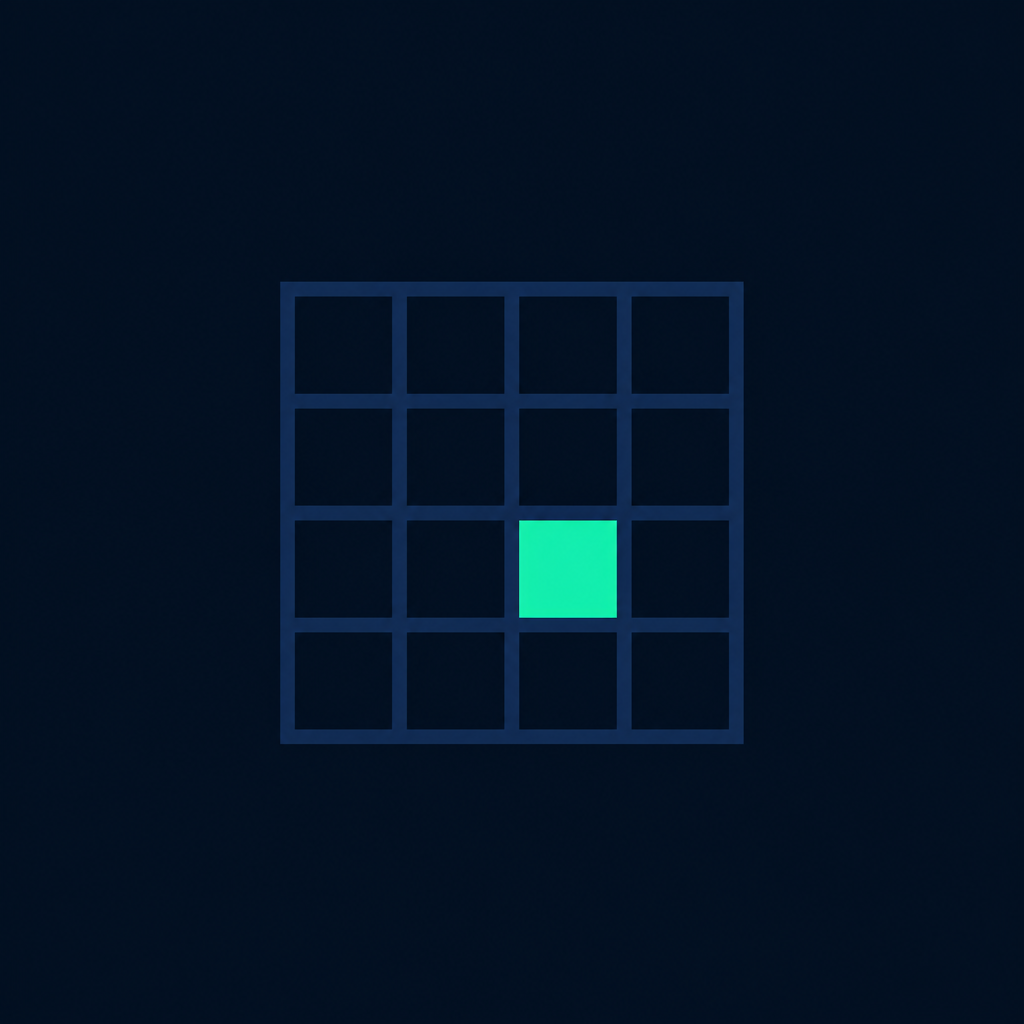
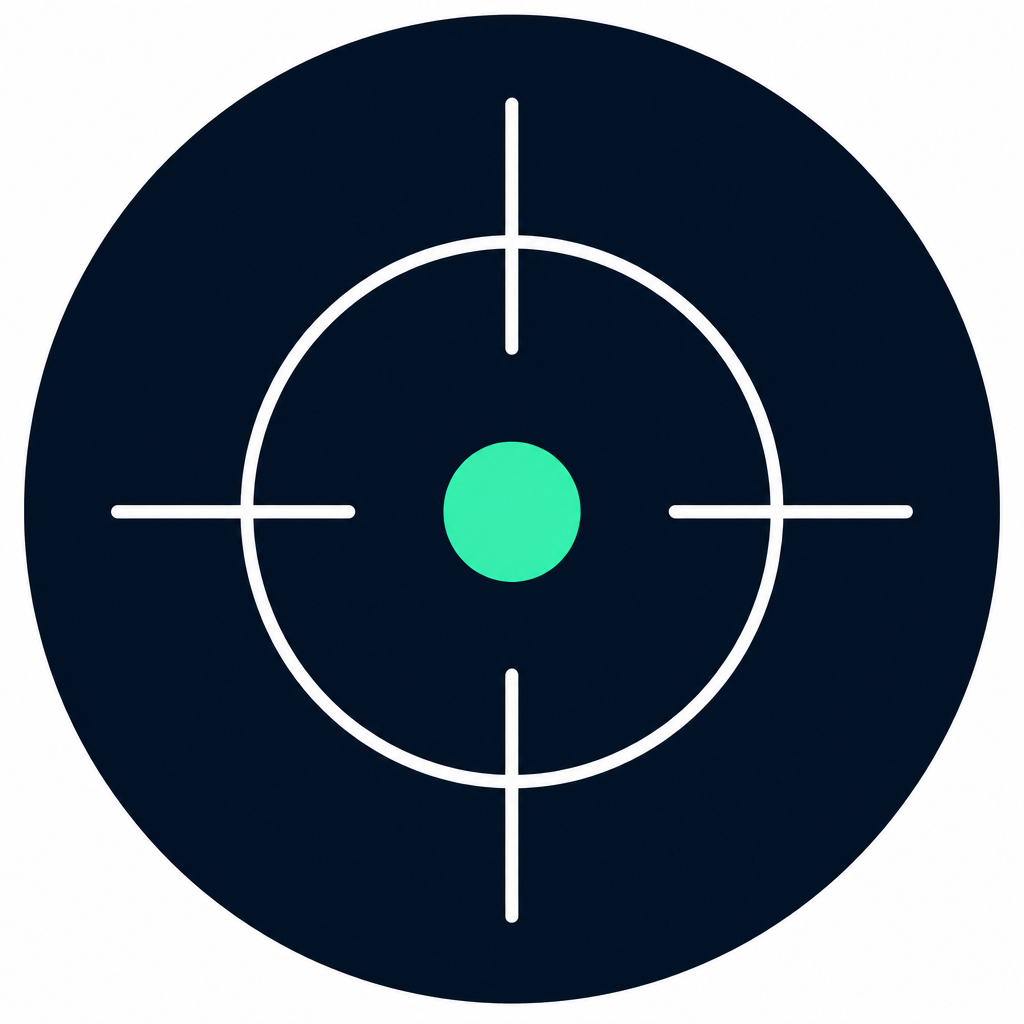
Lock Fieldwork brand to target / source-aim mark
Replace the grid mark with the chosen reticle logo across SVG wordmark,
favicon, and public brand asset.

diff --git a/src/diy/components/Logo.jsx b/src/diy/components/Logo.jsx
@@ -1,6 +1,6 @@
 import { Link } from 'react-router-dom';
 
-/** Fieldwork brand mark — grid field with signal cell. */
+/** Fieldwork brand mark — target / dispute-at-the-source. */
 export function FieldworkMark({ size = 28, className = '' }) {
   return (
     <svg
@@ -12,11 +12,14 @@ export function FieldworkMark({ size = 28, className = '' }) {
       className={className}
       aria-hidden="true"
     >
-      <rect width="64" height="64" rx="12" fill="#07131F" />
-      <g stroke="#2A4A58" strokeWidth="1.5">
-        <path d="M16 22h32M16 32h32M16 42h32M22 16v32M32 16v32M42 16v32" />
-      </g>
-      <rect x="28" y="28" width="8" height="8" fill="#2EE6A6" />
+      <rect width="64" height="64" rx="14" fill="#07131F" />
+      <circle cx="32" cy="32" r="18" stroke="#E8EEF2" strokeWidth="2" />
+      <circle cx="32" cy="32" r="11" stroke="#E8EEF2" strokeWidth="1.75" />
+      <line x1="32" y1="10" x2="32" y2="22" stroke="#E8EEF2" strokeWidth="2" strokeLinecap="round" />
+      <line x1="32" y1="42" x2="32" y2="54" stroke="#E8EEF2" strokeWidth="2" strokeLinecap="round" />
+      <line x1="10" y1="32" x2="22" y2="32" stroke="#E8EEF2" strokeWidth="2" strokeLinecap="round" />
+      <line x1="42" y1="32" x2="54" y2="32" stroke="#E8EEF2" strokeWidth="2" strokeLinecap="round" />
+      <circle cx="32" cy="32" r="4" fill="#2EE6A6" />
     </svg>
   );
 }
